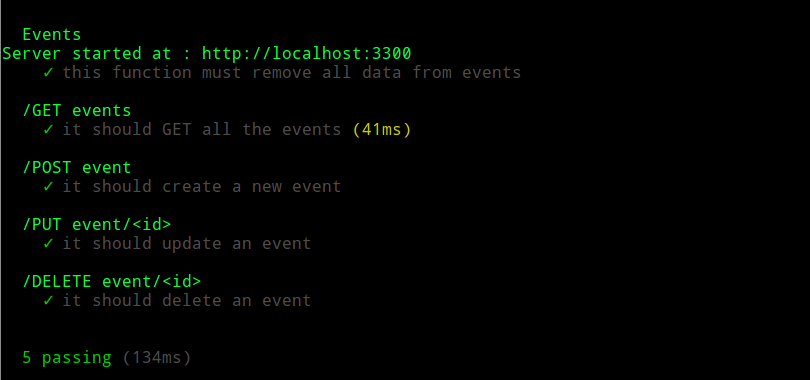
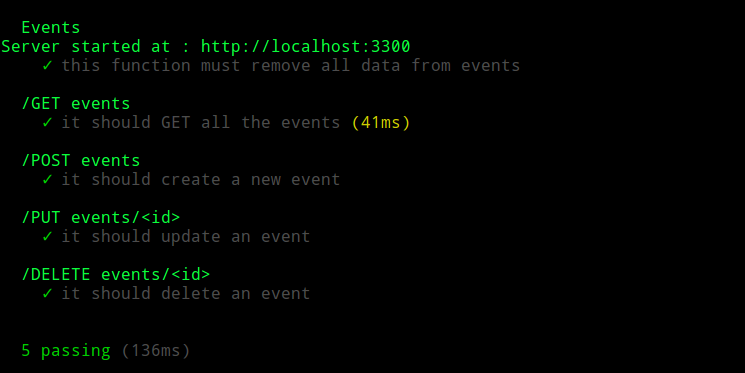
Test label updated

diff --git a/test/event.js b/test/event.js
@@ -32,7 +32,7 @@ describe('/GET events', function() {
 });
 
 //Posting a new event for test
-describe('/POST event', function() {
+describe('/POST events', function() {
     it('it should create a new event', function(done) {
         chai.request(server)
             .post('/events')
@@ -61,7 +61,7 @@ describe('/POST event', function() {
 });
 
 //Updating an existing event for test
-describe('/PUT event/<id>', function() {
+describe('/PUT events/<id>', function() {
     it('it should update an event', function(done) {
         chai.request(server)
             .get('/events')
@@ -87,7 +87,7 @@ describe('/PUT event/<id>', function() {
 });
 
 //Deleting an event for test
-describe('/DELETE event/<id>', function() {
+describe('/DELETE events/<id>', function() {
     it('it should delete an event', function(done) {
         chai.request(server)
             .get('/events')
